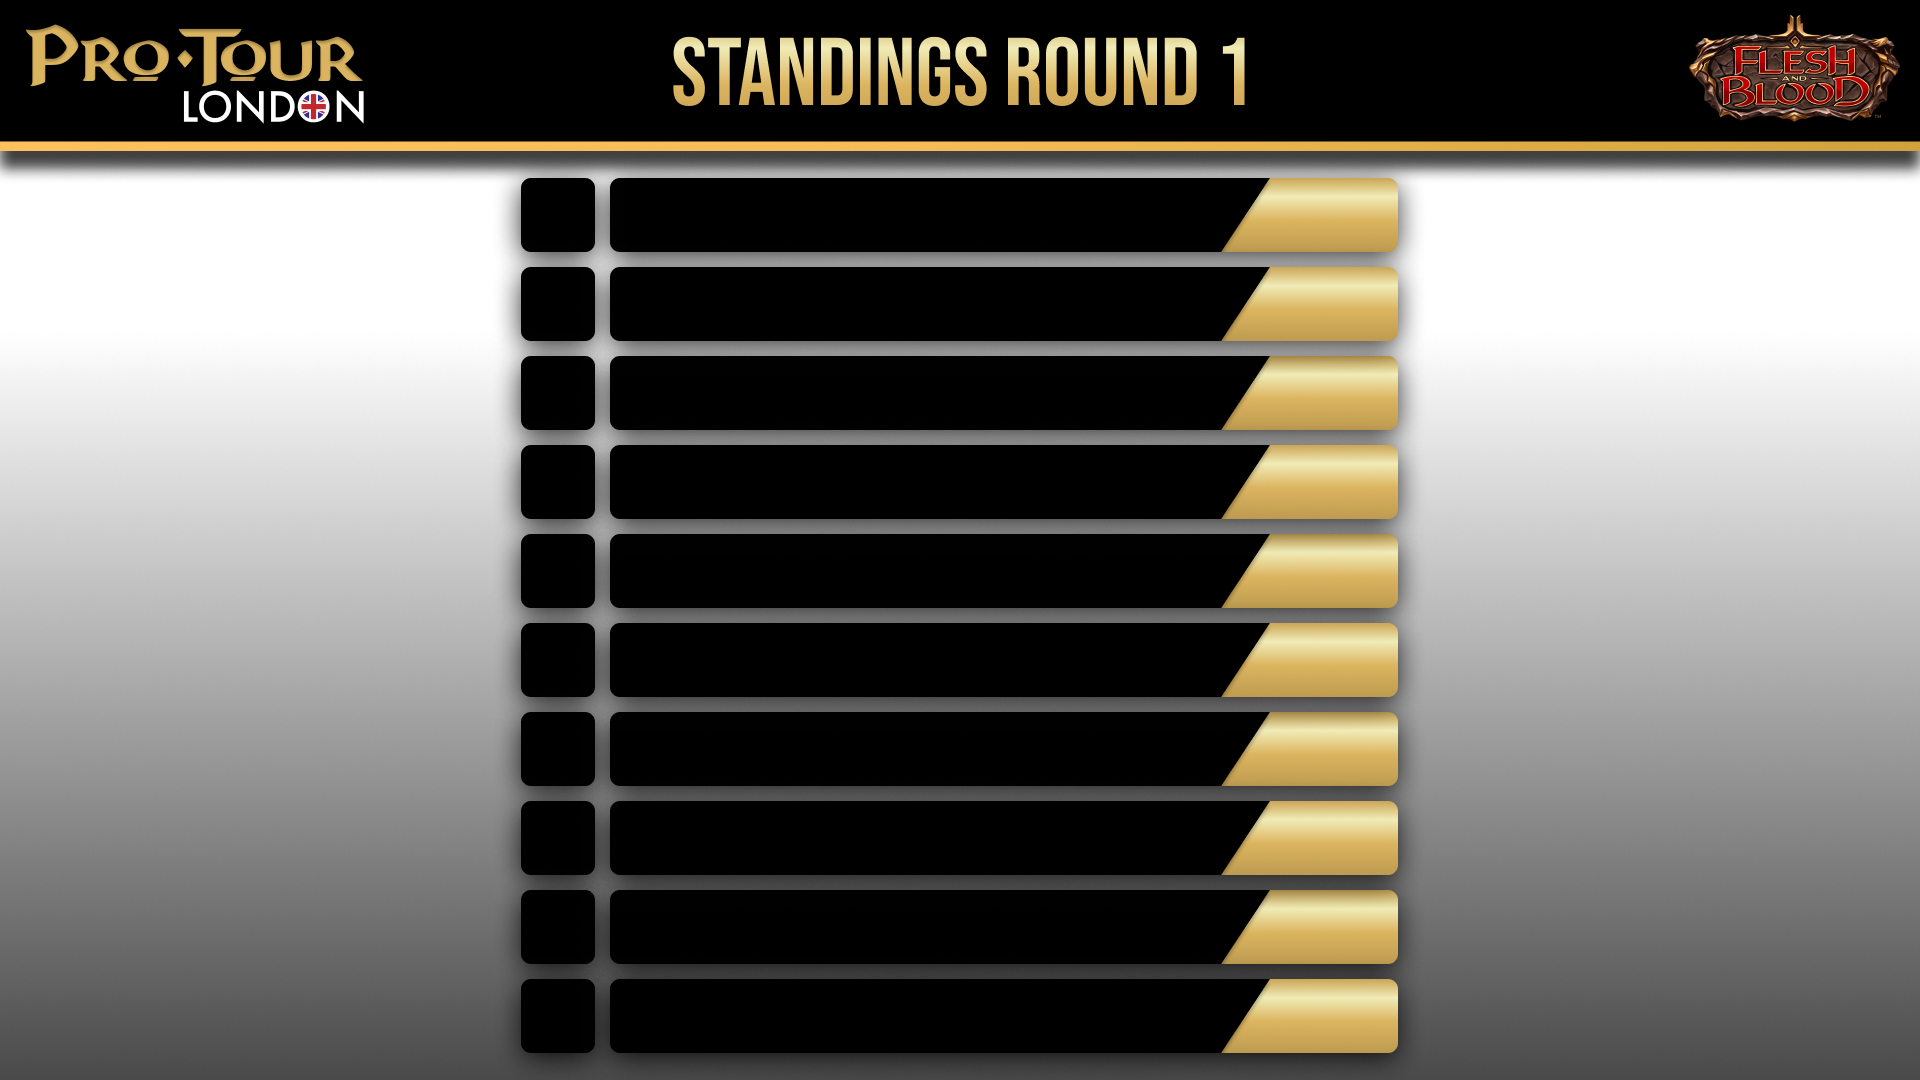
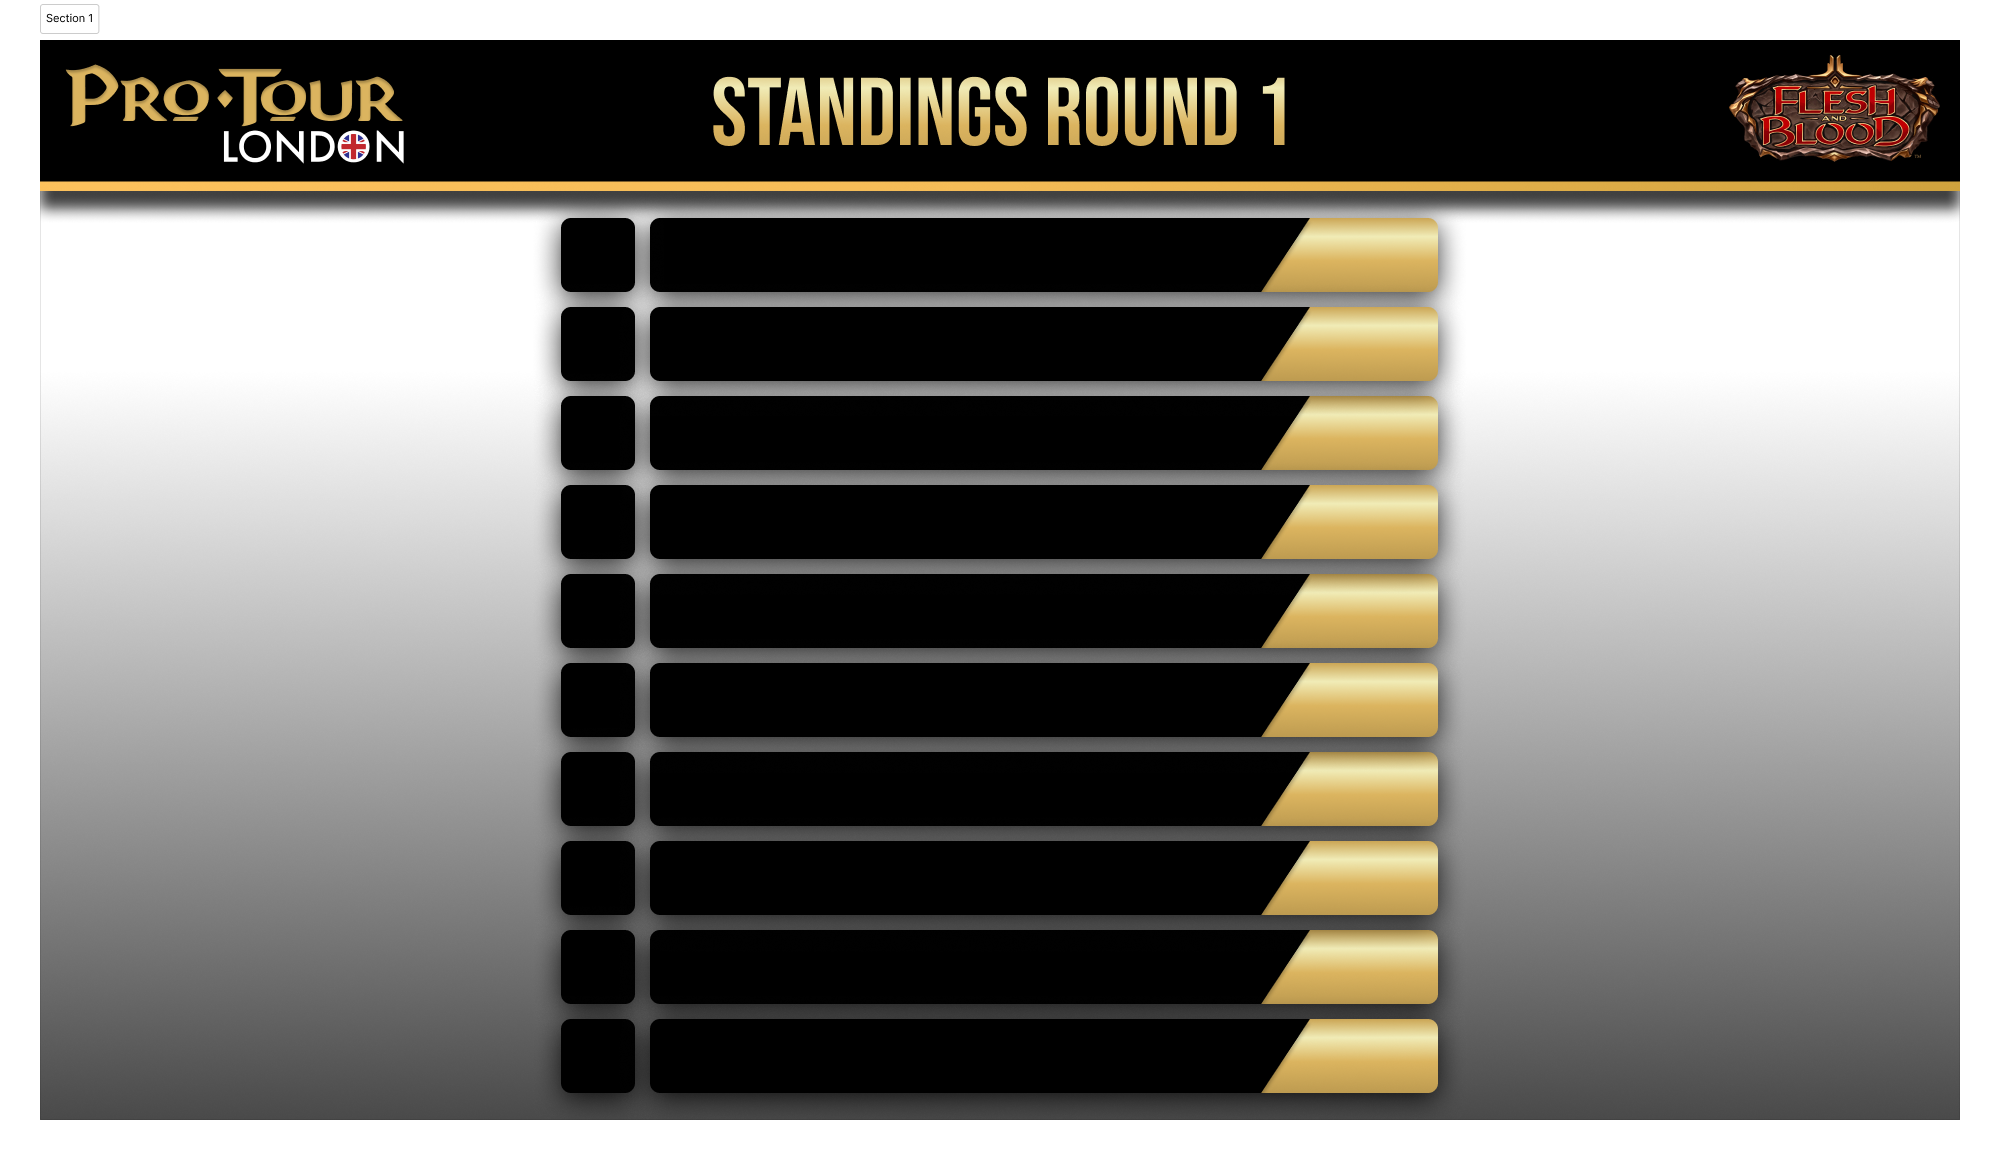
main
new bg and format FIGMA WAS WRONG WAH

diff --git a/templates/stream.html b/templates/stream.html
@@ -36,6 +36,7 @@
         .frame:nth-child(8) { top: 801px; }
         .frame:nth-child(9) { top: 890px; }
         .frame:nth-child(10) { top: 979px; }
+        .frame:nth-child(11) { top: 979px; }
 
         .player-name {
             position: absolute;
@@ -207,25 +208,25 @@
                 
                 if (data.standings && data.standings.length > 0) {
                     const standingsContainer = document.getElementById('standings-container');
-                    const top10Standings = data.standings.slice(0, 10);
+                    const top10Standings = data.standings
+                        .sort((a, b) => a.position - b.position)
+                        .slice(0, 10);
                     
                     // Keep the round title and add the standings
                     const roundTitle = standingsContainer.querySelector('.round-title');
                     standingsContainer.innerHTML = '';
                     standingsContainer.appendChild(roundTitle);
                     
-                    const standingsHtml = top10Standings
-                        .sort((a, b) => a.position - b.position)
-                        .map((entry, index) => createPlayerEntry(
+                    top10Standings.forEach((entry, index) => {
+                        const playerEntry = createPlayerEntry(
                             entry.player,
                             entry.flag || 'US',
                             entry.wins,
                             entry.hero || 'default',
                             index
-                        ))
-                        .join('');
-                    
-                    standingsContainer.insertAdjacentHTML('beforeend', standingsHtml);
+                        );
+                        standingsContainer.insertAdjacentHTML('beforeend', playerEntry);
+                    });
                     
                     document.querySelectorAll('.player-name').forEach(nameElement => {
                         fitText(nameElement);
